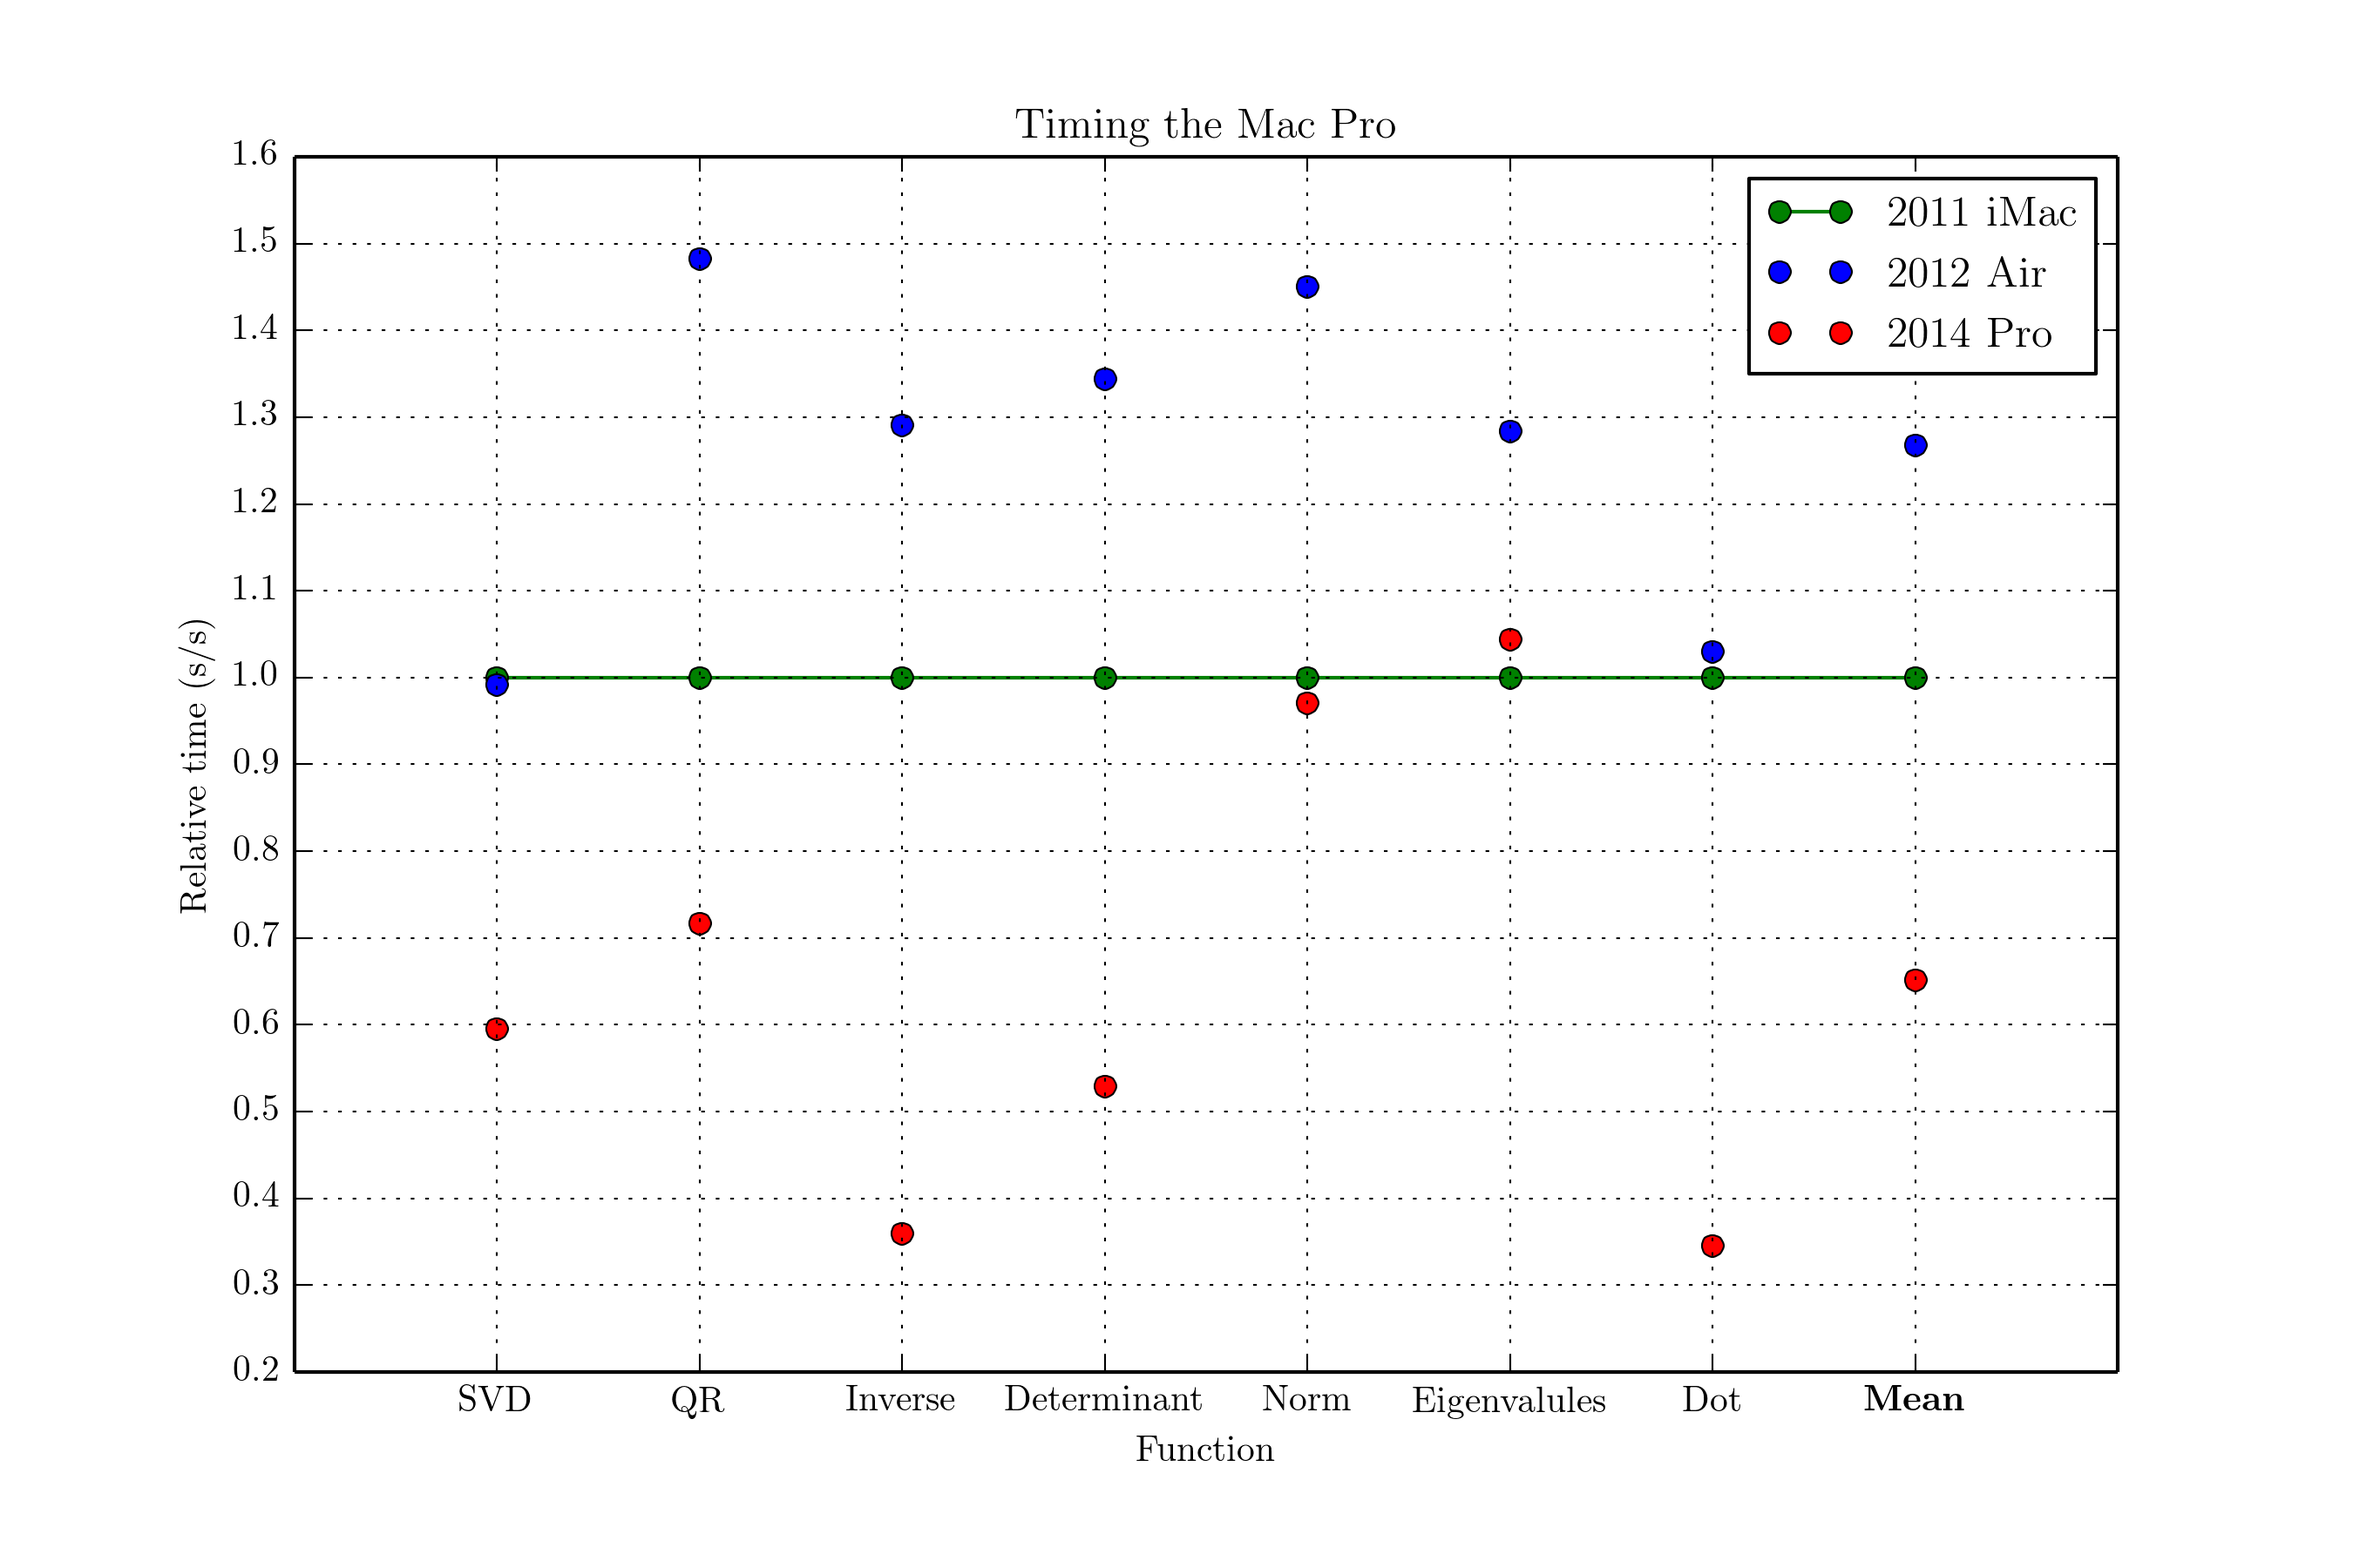
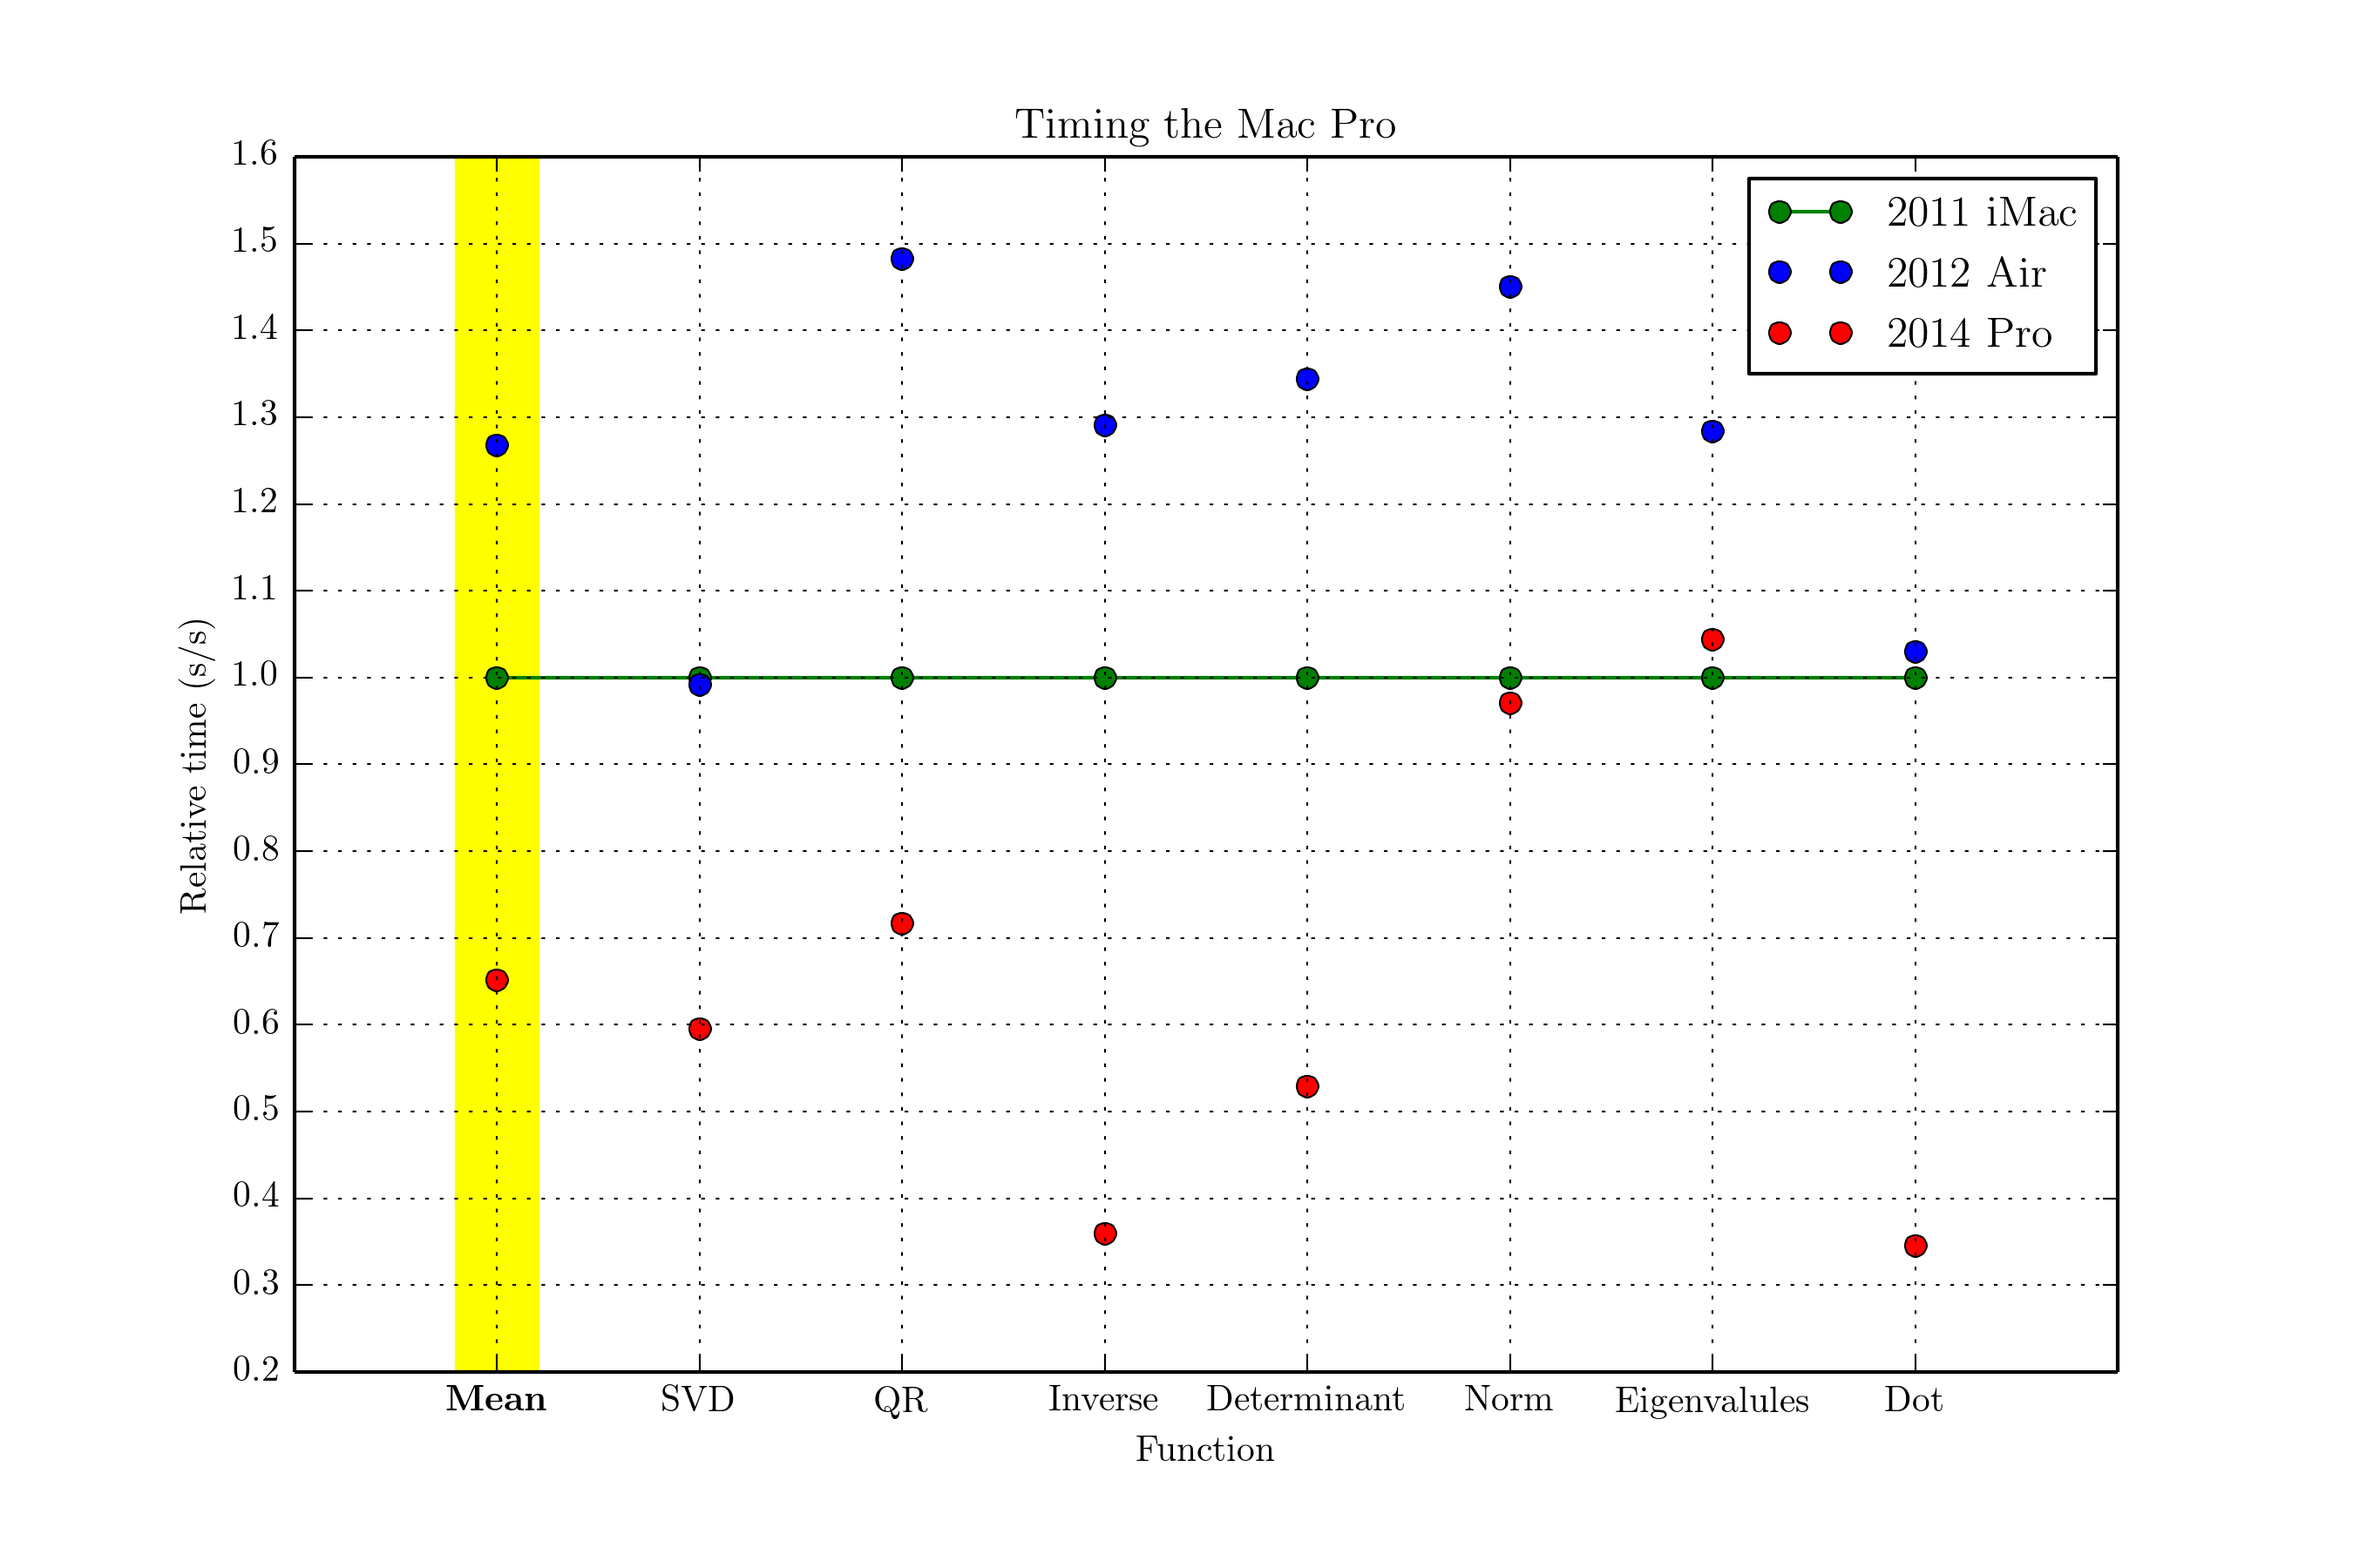
adding color & N multiplier

diff --git a/results/plot.py b/results/plot.py
@@ -11,12 +11,13 @@ pro = asarray(x.Pro) / imac
 names = x.Function
 
 imac = hstack((imac, [1]))
-air = hstack((air, [mean(air)]))
-pro = hstack((pro, [mean(pro)]))
-names = hstack((names, ["\\textbf{Mean}", ""]))
+air = hstack(([mean(air)], air))
+pro = hstack(([mean(pro)], pro))
+names = hstack((["\\textbf{Mean}"], names, [""]))
 
 SIZE = (3*3, 2*3)
 figure(figsize=SIZE)
+ax = gca()
 i = arange(1, imac.shape[0]+2)
 plot(imac , 'go-' , label='2011 iMac')
 plot(air  , 'bo'  , label='2012 Air')
@@ -33,8 +34,11 @@ title('Timing the Mac Pro')
 xticks(arange(pro.shape[0]+1), names)
 STEP = 0.1
 plt.yticks(arange(0.2, 1.6+STEP, step=STEP))
-gca().set_ylim((0.2, 1.6))
-gca().set_xlim(-1, pro.shape[0])
+ax.set_ylim((0.2, 1.6))
+ax.set_xlim(-1, pro.shape[0])
+
+rect = matplotlib.patches.Rectangle((-0.2,0.2), 0.4, 1.6, color='yellow')
+ax.add_patch(rect)
 
 savefig('times.png', dpi=300)
 show()

diff --git a/bench.py b/bench.py
@@ -1,33 +1,34 @@
 from __future__ import division
 from pylab import *
 import sys
-
 import timeit
 
+MULTIPLIER = 1.0
+
 def SVDTest():
-    N = 1e3
+    N = 1e3 * MULTIPLIER
     u, s, v = svd(randn(N,N))
 def QRTest():
-    N = 2e3
+    N = 2e3 * MULTIPLIER
     q, r = qr(randn(N,N))
 def InverseTest():
-    N = 2e3
+    N = 2e3 * MULTIPLIER
     A = randn(N,N)
     x = randn(N)
     sol = inv(A).dot(x)
 def DeterminantTest():
-    N = 3.0e3
+    N = 3.0e3 * MULTIPLIER
     A = randn(N,N)
     d = det(A)
 def NormTest():
-    N = 5e3
+    N = 5e3 * MULTIPLIER
     A = randn(N,N)
     n = norm(A)
 def EigTest():
-    N = 8e2
+    N = 8e2 * MULTIPLIER
     e = eig(randn(N,N))
 def DotTest():
-    N = 2e3
+    N = 2e3 * MULTIPLIER
     A = randn(N,N)
     B = randn(N,N)
     C = A.dot(B)
